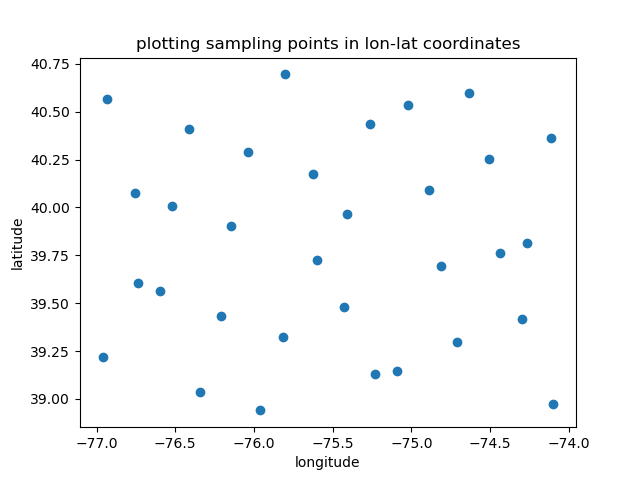
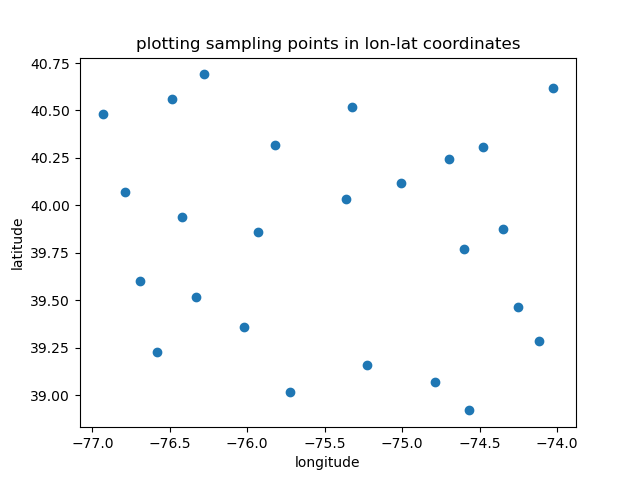
edit sampling function to sample exact number of samples; new sampling plots

diff --git a/utils.py b/utils.py
@@ -55,7 +55,9 @@ def sobolSamples(num_samples, min_point, max_point):
     #   squared area of interest
     sampler = qmc.Sobol(d=2)
     pow = int(np.ceil(np.log2(num_samples)))
+    indices = np.random.choice(2**pow, num_samples, replace=False)
     points = sampler.random_base2(m=pow)
+    points = points[indices, :]
     return qmc.scale(points, min_point, max_point)
 
 def plotSamples(coords, plot_name):
@@ -78,10 +80,10 @@ def plotPath(path, plot_name):
     plt.savefig(plot_name)
     plt.show()
 
-# bot = (38.907192, -77.036873)  # DC
-# top = (40.712776, -74.005974)  # NYC
-# coords = sobolSamples(25, bot, top)
-# plotSamples(coords, "./plots/test_samples25.png")
+bot = (38.907192, -77.036873)  # DC
+top = (40.712776, -74.005974)  # NYC
+coords = sobolSamples(40, bot, top)
+plotSamples(coords, "./plots/test_samples40.png")
 
 #p1 = [40.689202777778, -74.044219444444]
 #p2 = [38.889069444444, -77.034502777778]
